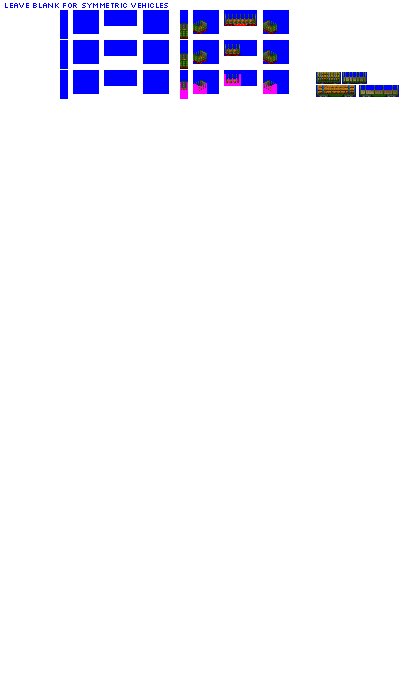
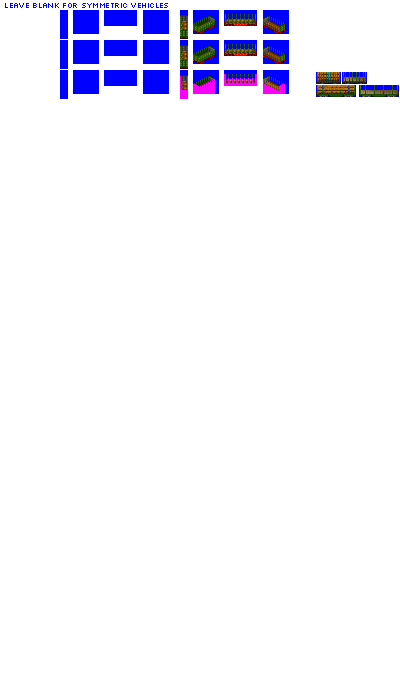
Change: sprites complete for gen 4C, 5C, 6C Stake Cars

Changed region(s): [[0.57, 0.0, 0.72, 0.15], [0.51, 0.0, 0.54, 0.15], [0.45, 0.0, 0.48, 0.15]]

diff --git a/src/vehicles/stake_cars.py b/src/vehicles/stake_cars.py
@@ -62,7 +62,7 @@ def main():
                               base_numeric_id=1930,
                               gen=4,
                               subtype='C',
-                              sprites_complete=False)
+                              sprites_complete=True)
 
     consist.add_unit(type=FreightCar,
                      vehicle_length=8,
@@ -84,7 +84,7 @@ def main():
                               base_numeric_id=930,
                               gen=5,
                               subtype='C',
-                              sprites_complete=False)
+                              sprites_complete=True)
 
     consist.add_unit(type=FreightCar,
                      vehicle_length=8,
@@ -106,7 +106,7 @@ def main():
                               base_numeric_id=1920,
                               gen=6,
                               subtype='C',
-                              sprites_complete=False)
+                              sprites_complete=True)
 
     consist.add_unit(type=FreightCar,
                      vehicle_length=8,
